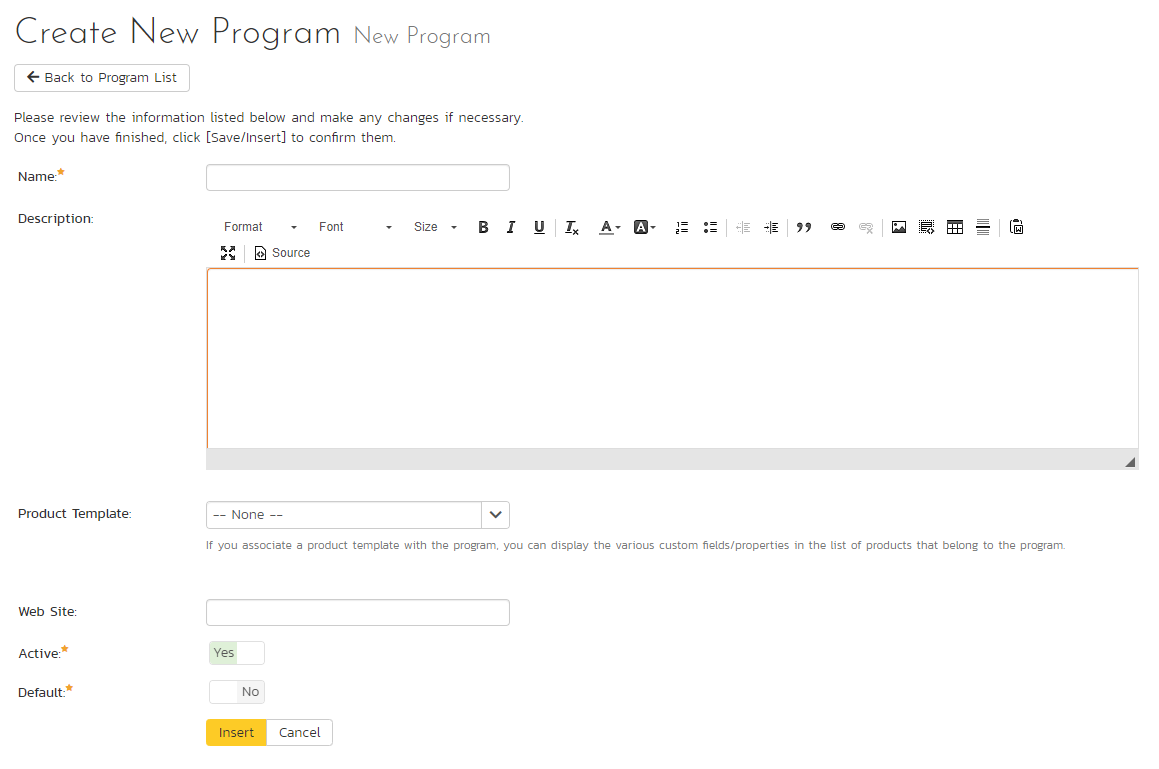
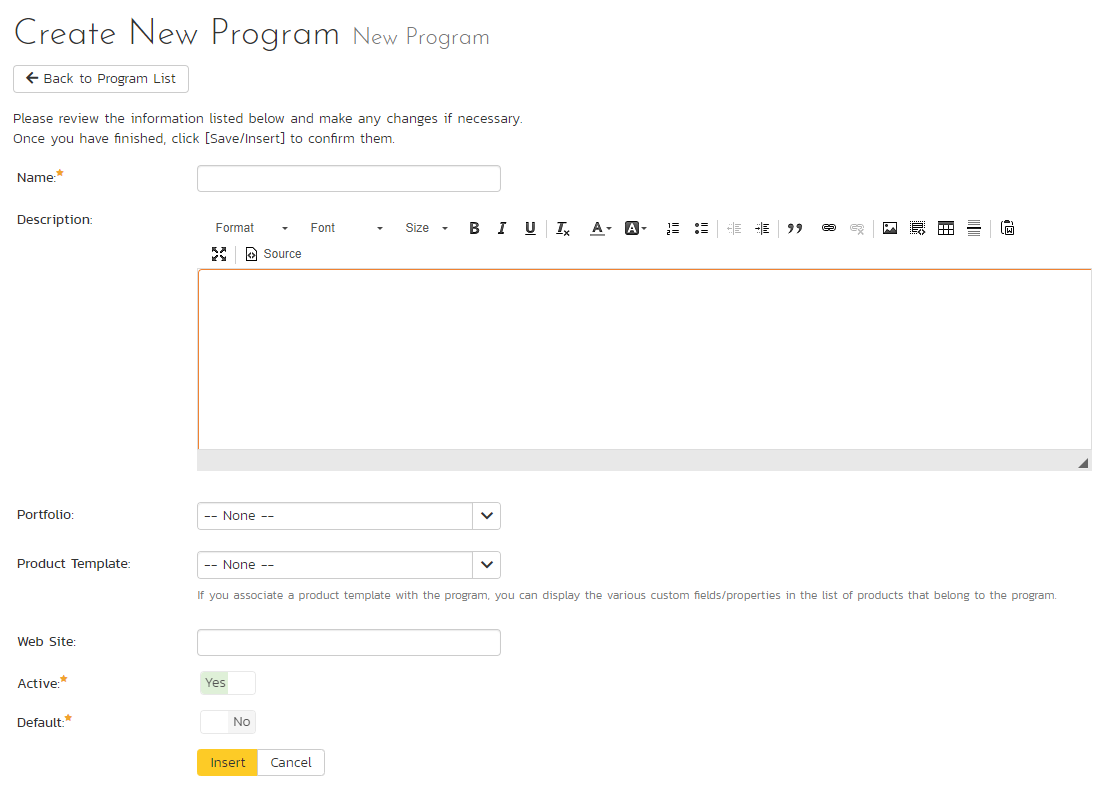
[TK:1853] program page info about portfolios

diff --git a/docs/Spira-Administration-Guide/System-Workspaces.md b/docs/Spira-Administration-Guide/System-Workspaces.md
@@ -1,5 +1,11 @@
 # System: Workspaces
+There are up to 3 levels of workspaces that you can use to organize all of your data within Spira. Products are where all your tests, requirements, and bugs live. These are grouped inside of Programs. In SpiraPlan you can group programs inside of Portfolios. Each of these workspaces is discussed below, as are Templates - a special type of workspace for controlling parts of how products and programs work.
 
+All workspaces share certain ways of working: they all have a name and description, then can all be made active or inactive. An inactive workspace is completely inaccessible to any user.
+
+- if you make a product inactive, no member of that product will see it in the app. Only a system administrator can make that product active again. 
+- if you make a program inactive, no member of that program can access it in the app. Additionally, none of the products inside that program will be accessible.
+- if you make a portfolio inactive, it will not be accessible in the app. And, like with programs, none of its programs, and also none of their products will be accessible.
 
 ## View/Edit Products
 
@@ -47,39 +53,39 @@ The following screen is displayed when you choose the "View/Edit Programs" link 
 
 ![](img/System_Workspaces_36.png)
 
-This screen displays the list of programs in the system (both inactive and active) together with their template, web site URL, date of creation and active status. Programs are used to relate products that are in the same department/division/organization or are for a common customer, client, etc. When products are in the same program, a user that is a member of the program can see the special Program Dashboard that displays key metrics from all the products in the program combined. Also, such users will have observer-level access to the contained products without needing to be explicitly added to each product.
+This screen displays the list of programs in the system (both inactive and active) together with their portfolio (SpiraPlan only), template, web site URL, date of creation and active status. Programs are used to relate products that are in the same department/division/organization or are for a common customer, client, etc. When products are in the same program, a user that is a member of the program can see the special Program Dashboard that displays key metrics from all the products in the program combined. Also, such users will have observer-level access to the contained products without needing to be explicitly added to each product.
 
 You can filter the list of programs by either choosing an active status, or entering a portion of the name, web-site or date into the appropriate text box. When you click the "Filter" button, the list of programs will be filtered by the criteria you entered. You can clear the filter selection by clicking the "Clear Filters" button. To sort the list of programs, just click on the appropriate arrow icon located in the header row of each field (one each for ascending / descending) In addition, the list of programs is paginated into groups of fifteen (15). You can step through the different pages by clicking the page numbers at the bottom of the product list.
 
 To permanently delete a program, you should click the "Delete" button to the right of the program details. Any products contained in the program will not be deleted, but instead just moved to the default program. There has to be at least one program in the system at all times, so the program designated as the 'default' one will not be available for deletion.
 
+### Add a new program
 To add a new program to the system, click the "Add" button at the bottom of the program list, and a new screen will be displayed that allows you to enter the new program information:
 
 ![](img/System_Workspaces_37.png)
 
 You need to enter:
 
--   a name for the program;
-
--   optionally enter a detailed description and/or web-site URL;
-
--   you should initially make sure that the program is marked as "Active";
-
--   you can choose to make this program the default one (meaning that it cannot be deleted and products get added to it when their programs are deleted);
-
--   in addition you can optionally choose to associate the program with a product template. The template only controls the products that use it. It does not control the program, but it can affect what data is visible from some of the program pages.
+- a name for the program
+- optionally enter a detailed description and/or web-site URL
+- SpiraPlan only: optionally select a portfolio for the program to belong to, by default "none" is selected 
+- you should initially make sure that the program is marked as "Active": this mean the program and its products will be accessible to users  
+- you can choose to make this program the default one (meaning that it cannot be deleted and products get added to it when their programs are deleted)
+- in addition you can optionally choose to associate the program with a product template. The template only controls the products that use it. It does not control the program, but it can affect what data is visible from some of the program pages
 
 Once you are satisfied with the information, click the "Insert" button to actually create the new program.
+
+### Edit a program
 
 In a similar way, to edit the details of an existing program, click the "Edit" button in the right-hand column of the program list box, and you will be taken to the following screen that allows you modify the program details. **Please note that this is the only administrative page in the program administration section.**
 
 ![](img/System_Workspaces_38.png)
 
-On the top part of this screen you can edit the name, description, website URL, active status and default status. Once you have made the necessary changes, click the "Save" button to commit them. If you decide that you want to ignore the changes, click the "Cancel" button and the changes will be discarded.
+On the top part of this screen you can edit the name, description, website URL, portfolio (SpiraPlan only), active flag and default flag. Once you have made the necessary changes, click the "Save" button to commit them. If you decide that you want to ignore the changes, click the "Cancel" button and the changes will be discarded.
 
 In addition, the lower part of the screen allows you to view/edit the users that are members of the program and also see which products are in the program:
 
-a) Program User Membership
+#### Program User Membership
 
 This tab allows you to see which users are members of the program and which program role they have:
 
@@ -98,7 +104,7 @@ To change the role of an existing program member, just change the role in the dr
 You now should narrow down the list of users by entering filter criteria and clicking \[Filter\]. Once you have located the appropriate user(s), just select a program role for them from the drop-down list and click
 \[Add\] to add them to the program in the specified role.
 
-b) Program Product List
+#### Program Product List
 
 This tab allows you to see the list of products that are contained within the current program. Clicking on the name of the product will take you to the details page for that product:
 

diff --git a/docs/Spira-Administration-Guide/System-Administration.md b/docs/Spira-Administration-Guide/System-Administration.md
@@ -4,9 +4,7 @@ Now that you have successfully installed SpiraPlan®, this section of the guide 
 
 To perform these tasks, you need to login to the system with a user that has some level of "administration" permissions within the system. There are four different sections to administration, and each has its own permission. These sections and their permissions are:
 
-1.  **System Administration**: tasks like approving new users, creating new products, changing security settings, or viewing the logs all happen at the system-wide level of administration. There is a special "System Administrator" flag that can be assigned to any user (by an existing system admin only). Any user that has this flag can perform any system administrator task. *Please note that a special "administrator" user is created by the installer. You should initially login to SpiraPlan® with the username
-    administrator, and the password
-    'PleaseChange'. Change this password as soon as possible to something that is secure yet memorable by clicking on the "User Profile" link -- see the SpiraPlan® User Manual for more details.*
+1.  **System Administration**: tasks like approving new users, creating new products, changing security settings, or viewing the logs all happen at the system-wide level of administration. There is a special "System Administrator" flag that can be assigned to any user (by an existing system admin only). Any user that has this flag can perform any system administrator task. *Please note that a special "administrator" user is created by the installer. You should initially login to SpiraPlan® with the username `administrator`, and the password `PleaseChange`. Change this password as soon as possible to something that is secure yet memorable by clicking on the "User Profile" link.*
 
 2.  **Product Administration:** a product admin can make changes specific to that product and that product only. For instance, they can add or remove users from a product. Once a user is made a product admin, they can perform all the actions in the product administration section. *Each individual product has a defined set of users who are members of that product. Each member is assigned a specific role (many users can share the same role), and a role can be set to be a product admin.* *Please note, that when a system admin creates a product, they are automatically added as "Product Owner*".
 
